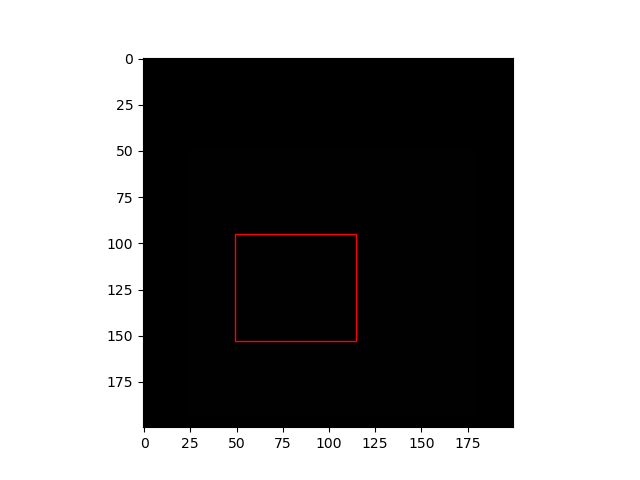
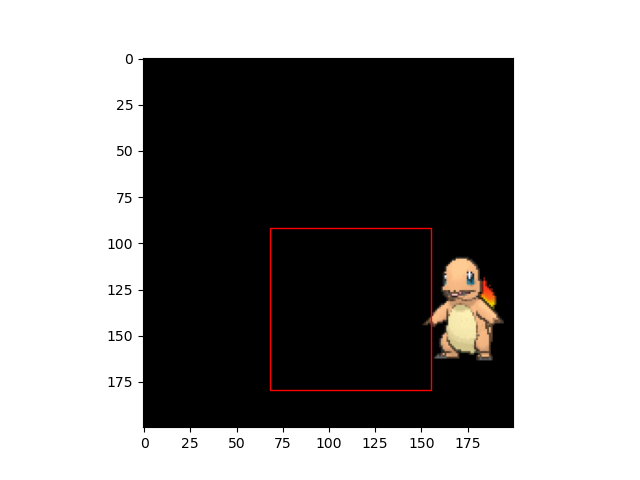
up

Changed region(s): [[0.3438, 0.4688, 0.7812, 0.8125], [0.4375, 0.8125, 0.6562, 0.8438]]

diff --git a/Udemy/DeepLearning-AdvancedComputerVision/Src/_84_Object_localization_project.py b/Udemy/DeepLearning-AdvancedComputerVision/Src/_84_Object_localization_project.py
@@ -10,27 +10,25 @@ from tensorflow.keras.optimizers import SGD
 # from tensorflow.keras.processing import image
 from matplotlib.patches import Rectangle
 from imageio import imread
-
+import shutil
 
 OUT_DIR = "84"
 
 
 def pokemon_generator(pokemon_img="84/charmander-tight.png", image_dim=200, batch_size=64):
     # carregar charmander
-    ch = imread(pokemon_img)
+    ch = np.array(imread(pokemon_img))
     CH_H, CH_W, _, = ch.shape
     print(f"- {pokemon_img} shape:{ch.shape}")
     POKE_DIM = image_dim
     # gerar imagens e targets
     while True:
-    # cada epoca ira ter 50 batches, sem nenhuma razao especifica
+        # cada epoca ira ter 50 batches, sem nenhuma razao especifica
         for _ in range(50):
             # tamanho do batch, altura, lartura, cor
-            img_batch_dimensions = (batch_size, POKE_DIM, POKE_DIM, 3)
+            X = np.zeros((batch_size, POKE_DIM, POKE_DIM, 3))
             # tamanho do batch, coordenadas para se definir a caixa
-            target_dimensions = (batch_size, 4)
-            X = np.zeros(img_batch_dimensions)
-            Y = np.zeros(target_dimensions)
+            Y = np.zeros((batch_size, 4))
             
             for i in range(batch_size):
                 # calcular localização do charmander
@@ -48,7 +46,8 @@ def pokemon_generator(pokemon_img="84/charmander-tight.png", image_dim=200, batc
 
             # faz a função operar como um gerador
             X_yield = X/255.0
-            yield X/255.0, Y
+            yield X_yield, Y
+        print("** test")
 
 
 def _test_image_generator(save_name=""):
@@ -84,15 +83,19 @@ def make_model(img_h, img_w, hp_adam_lr):
     return model
 
 
-def pokemon_prediction(model, out_dir, pred_id, poke_dim, poke_h, poke_w):
+def pokemon_prediction(model, out_dir, pred_id, pokemon_img, poke_dim):
+    # load the image
+    ch = np.array(imread(pokemon_img))
+    ch_h, ch_w, _, = ch.shape
     # generate random image
     x = np.zeros((poke_dim, poke_dim, 3))
-    row0 = np.random.randint(poke_dim - poke_h)
-    col0 = np.random.randint(poke_dim - poke_w)
-    row1 = row0 - poke_h
-    col1 = col0 - poke_w
-    x[row0:row1, col0:col1, :] = 1
-    print(f"row0:{row0}, col0:{col0}, row1:{row1}, col1:{col1}")
+    row0 = np.random.randint(poke_dim - ch_h)
+    col0 = np.random.randint(poke_dim - ch_w)
+    row1 = row0 + ch_h
+    col1 = col0 + ch_w
+    print(f"poke_dim:{poke_dim}, x.shape:{x.shape}, row0:{row0}, col0:{col0}, row1:{row1}, col1:{col1}")
+    x[row0:row1, col0:col1, :] = ch[:, :, :3]
+
 
     # Predict
     X = np.expand_dims(x, 0) / 255
@@ -127,8 +130,9 @@ def pokemon_prediction(model, out_dir, pred_id, poke_dim, poke_h, poke_w):
     plt.savefig(os.path.join(out_dir, f"test_prediction_{pred_id}"))
 
 
-def main(fast=True):
+def main(fast=True, delete_model=False):
         # load the pokemon
+        model_file = os.path.join(OUT_DIR, "vgg16_pokemon.mod")
         poke_dim = 200
         pokemon_img = os.path.join(OUT_DIR, "charmander-tight.png")
         ch = imread(pokemon_img)
@@ -138,26 +142,33 @@ def main(fast=True):
         # hyperparameters
         hp_adam_lr = 0.001
         hp_steps_epoch = 1
-        hp_epochs = 10
+        hp_epochs = 2
         if not fast:
             hp_adam_lr = 0.0005
             hp_steps_epoch = 100
             hp_epochs = 10
 
-        print("# build the model")
-        model = make_model(img_h=poke_dim, img_w=poke_dim, hp_adam_lr=hp_adam_lr)
+        if delete_model and os.path.exists(model_file):
+            shutil.rmtree(model_file)
 
-        print("# test generator")
-        _test_image_generator(os.path.join(OUT_DIR, "test_img_generator"))
+        if not os.path.exists(model_file):
+            print("# build the model")
+            model = make_model(img_h=poke_dim, img_w=poke_dim, hp_adam_lr=hp_adam_lr)
 
-        print("# fit the model")
-        model.fit_generator(pokemon_generator(batch_size=8),
-                            steps_per_epoch=hp_steps_epoch,
-                            epochs=hp_epochs)
+            print("# test generator")
+            _test_image_generator(os.path.join(OUT_DIR, "test_img_generator"))
+
+            print("# fit the model")
+            model.fit_generator(pokemon_generator(pokemon_img=pokemon_img, batch_size=8),
+                                steps_per_epoch=hp_steps_epoch,
+                                epochs=hp_epochs)
+            model.save(model_file)
+        else:
+            model = tf.keras.models.load_model(model_file)
 
         print("# make prediction")
         for i in range(10):
-            pokemon_prediction(model, OUT_DIR, pred_id=i, poke_dim=poke_dim, poke_h=ch_h, poke_w=ch_w)
+            pokemon_prediction(model, OUT_DIR, pred_id=i, pokemon_img=pokemon_img, poke_dim=poke_dim)
 
 def config_tf():
     os.environ["KMP_DUPLICATE_LIB_OK"] = "TRUE"
@@ -177,7 +188,7 @@ if __name__ == '__main__':
     test01 = False
 
     if run_main:
-        main()
+        main(fast=True, delete_model=True)
     if test01:
         _test_image_generator(save_name=os.path.join(OUT_DIR, "test_charmander"))
 
